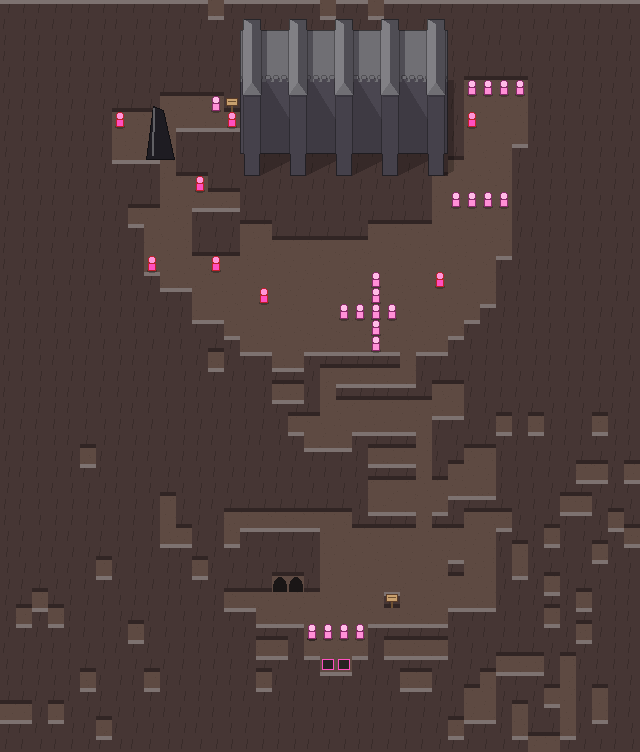
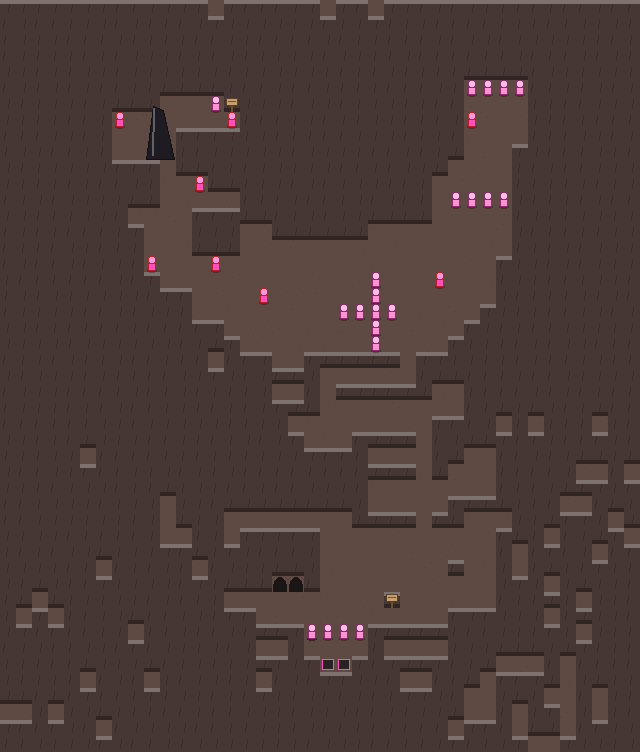
mockup: clean up kit, keep only strong pieces; giants draw behind buildings
Scrapped debris, cliff-town, hangar-wall, fortress-wall, palace-wall,
temple-stairs, cliff-door, comm-tower, obelisk, spire and saucer.
Giants now render first so Cloud City's rim no longer cuts buildings.
New pieces go one category at a time from here.

Changed region(s): [[0.375, 0.0, 0.7188, 0.2447]]

diff --git a/tools/mockup/mockup/build.py b/tools/mockup/mockup/build.py
@@ -480,42 +480,6 @@ def m_dome_porch(m):
               S.vault(px - 4, -1, px + 4, 3, 8, 4, m.door_col_rgb, subtract=True))
 
 
-def m_spire(m):
-    """A Mos Espa-style tower: stacked drums getting narrower, a mast on top."""
-    W = m.W
-    a0 = min(W / 2 - 2, 18)
-    b0 = a0 * 0.6
-    cx, cy = W / 2, b0 + 1
-    z = 0
-    tiers = [(1.0, 16), (0.75, 14), (0.55, 12), (0.35, 10)]
-    top = m.H - 2 * b0 - 12
-    for k, (f, hh) in enumerate(tiers):
-        hh = min(hh, top - z)
-        if hh < 4:
-            break
-        col = m.wall if k % 2 == 0 else shade(m.wall, -0.06)
-        m.add(S.cylinder(cx, cy, a0 * f, b0 * f, z, z + hh, col, m.roof))
-        m.add(S.cylinder(cx, cy, a0 * f + 1, b0 * f + 1, z + hh - 2, z + hh, m.trim))
-        z += hh
-    m.add(S.box(cx - 1, cy - 1, z, cx + 1, cy + 1, min(z + 12, m.H - 2 * b0), m.trim))
-    _round_door(m, cx, cy, a0, b0, h=10)
-
-
-def m_saucer(m):
-    """Cloud City: a wide disc on a slim stalk, a small dome on top."""
-    W = m.W
-    a = max(8, min(W / 2 - 1, (m.H - 36) / (2 * OVAL)))     # leave room for a visible stalk
-    b = a * OVAL
-    cx, cy = W / 2, b + 1
-    stalk = max(14, int(m.H - 2 * b - 16))
-    sa, sb = max(5, a * 0.22), max(3, b * 0.22)
-    m.add(S.cylinder(cx, cy, sa, sb, 0, stalk, m.wall, m.roof))
-    m.add(S.cylinder(cx, cy, a * 0.6, b * 0.6, stalk - 4, stalk, shade(m.wall, -0.1)))
-    m.add(S.cylinder(cx, cy, a, b, stalk, stalk + 5, m.trim, m.roof))
-    m.add(S.dome(cx, cy, a * 0.45, b * 0.45, stalk + 5, 7, shade(m.roof, 0.1)))
-    _round_door(m, cx, cy, sa, sb, w=6, h=10)
-
-
 def m_glass_dome(m):
     """A faceted glass greenhouse dome on a low ring wall (Sullust ash farms)."""
     h = 5
@@ -527,61 +491,6 @@ def m_glass_dome(m):
     m.add(S.cylinder(cx, cy, a, b, 0, h, m.wall, m.roof))
     m.add(S.dome(cx, cy, a, b, h, rise, glass, rings=4, n=12))
     _round_door(m, cx, cy, a, b, h=8)
-
-
-def m_comm_tower(m):
-    """A comms mast: a lattice tower tapering up, crossbars, a dish near the top, a small hut at its foot."""
-    W = m.W
-    s = min(W * 0.32, 16)
-    cx, cy = W / 2, s + 6
-    top = m.H - 2 * s - 14
-    leg = m.trim
-    for dx in (-1, 1):
-        for dy in (-1, 1):
-            m.add(S.prism([(cx + dx * s - 1.2, cy + dy * s * 0.6 - 1.2), (cx + dx * s + 1.2, cy + dy * s * 0.6 - 1.2),
-                           (cx + dx * s + 1.2, cy + dy * s * 0.6 + 1.2), (cx + dx * s - 1.2, cy + dy * s * 0.6 + 1.2)],
-                          0, top, leg))
-    for k, z in enumerate(range(10, int(top), 12)):
-        f = 1 - z / max(top, 1) * 0.0
-        m.add(S.box(cx - s, cy - s * 0.6 - 1, z, cx + s, cy - s * 0.6 + 1, z + 1.5, shade(leg, 0.15)))
-    m.add(S.box(cx - s - 1, cy - s * 0.6 - 1, top, cx + s + 1, cy + s * 0.6 + 1, top + 3, m.wall, m.roof))
-    m.add(S.box(cx - 1, cy - 1, top + 3, cx + 1, cy + 1, top + 14, leg))
-    m.add(S.cylinder(cx + s * 0.6, cy - s * 0.6, 6, 3, top + 6, top + 8, shade(m.wall, 0.2)))
-    m.add(S.box(cx - 9, 0, 0, cx + 9, 8, 10, m.wall, m.roof))
-    m.door(0, h=8, w=6)
-
-
-def m_cliff_door(m):
-    """A hangar dug into a rock or ice face: the face fills the box, a framed blast door in it."""
-    W = m.W
-    rock = (150, 150, 150) if m.grey else m.st.get("rock", shade(m.ground, -0.25))
-    h = m.H - 12
-    m.add(S.prism([(0, 4), (W, 4), (W, 12), (0, 12)], 0, h, rock, shade(rock, 0.15), taper=4))
-    m.add(S.box(0, 4, 0, W, 12, h * 0.3, rock))
-    if m.door_x is None:
-        m.door_x = W / 2
-    if True:
-        dw = min(W * 0.35, 26)
-        m.add(S.box(m.door_x - dw / 2 - 3, 2, 0, m.door_x + dw / 2 + 3, 6, min(h * 0.7, 26), m.wall, m.roof))
-        m.add(S.box(m.door_x - dw / 2, 1, 0, m.door_x + dw / 2, 8, min(h * 0.62, 22), m.door_col_rgb, subtract=True))
-        for z in range(4, int(min(h * 0.62, 22)), 5):
-            m.add(S.box(m.door_x - dw / 2, 6.5, z, m.door_x + dw / 2, 7.5, z + 1, shade(m.door_col_rgb, 0.25)))
-
-
-def m_obelisk(m):
-    """A tall tapering tower on a stepped base (Vader's fortress, the Kyber temple)."""
-    W = m.W
-    D = max(16, int(m.H * 0.3))
-    m.add(S.box(1, 0, 0, W - 1, D, 8, m.wall, m.roof))
-    w0 = W * 0.28
-    cx, cy = W / 2, D * 0.55
-    top = m.H - D - 2
-    m.add(S.prism([(cx - w0, cy - w0 * 0.55), (cx + w0, cy - w0 * 0.55), (cx + w0, cy + w0 * 0.55),
-                   (cx - w0, cy + w0 * 0.55)], 8, top, m.wall, m.roof, taper=w0 * 0.42))
-    if m.st.get("fork"):
-        for dx in (-3, 3):
-            m.add(S.box(cx + dx - 1.5, cy - 1, top - 2, cx + dx + 1.5, cy + 1, top + 8, m.trim))
-    m.door(0, w=10)
 
 
 def m_plant(m):
@@ -634,34 +543,6 @@ def m_hipped(m):
     m.add(S.hip(-1, -2, m.W + 1, D + 1, h, rise, m.roof))
     m.door(0)
     m.windows(0, m.W, 0, h * 0.45)
-
-
-def m_cliff_town(m):
-    """Homes carved into a rock face: two stepped rock tiers, doorways, windows, balconies and ladders."""
-    W, H = m.W, m.H
-    rock = m.st.get("cliff") or shade(m.ground, -0.3)
-    D = max(16, H * 0.3)
-    h1 = (H - D) * 0.5
-    h2 = (H - D) - h1 - 2
-    m.add(S.prism([(0, 0), (W, 0), (W, D), (0, D)], 0, h1, rock, shade(rock, 0.12), taper=3))
-    m.add(S.prism([(0, D * 0.45), (W, D * 0.45), (W, D), (0, D)], h1 - 1, h1 + h2, shade(rock, -0.05),
-                  shade(rock, 0.1), taper=3))
-    dark = (30, 26, 24)
-    x = 10 + m.r(1, 8)
-    k = 0
-    while x < W - 14:
-        k += 1
-        if (k + m.r(2, 3)) % 3:
-            m.add(S.box(x, -1, 0, x + 7, 4, 11, dark, subtract=True),
-                  S.vault(x, -1, x + 7, 4, 11, 3, dark, subtract=True))
-        else:
-            m.add(S.box(x - 1, -2, h1 * 0.55, x + 9, 2, h1 * 0.55 + 1.5, shade(m.trim, 0.1)))     # a balcony
-        if k % 2:
-            m.add(S.box(x + 2, D * 0.45 + 2, h1 + h2 * 0.35, x + 6, D * 0.45 + 6, h1 + h2 * 0.35 + 5, dark,
-                        subtract=True))
-        x += 18 + m.r(k % 5 + 3, 10)
-    for lx in (W * 0.3, W * 0.72):
-        m.add(S.box(lx - 2, 1.5 - 0.5, 0, lx + 2, 2.3, h1 + 1, shade(m.trim, -0.1)))
 
 
 def m_city_edge(m):
@@ -723,53 +604,6 @@ def m_ship_hull(m):
     for k in range(1, 14):
         x = tipx + (backx - tipx) * k / 14
         m.add(S.box(x - 0.8, -400, -30, x + 0.8, 800, 600, shade(hull, -0.35), subtract=True))
-
-
-def m_debris(m):
-    """A field of capital-ship wreckage: hull slabs stuck in the sand, a buried engine bell, a fin."""
-    W, H = m.W, m.H
-    hull = _hull(m)
-    sand = shade(m.ground, -0.08)
-    x = 4
-    k = 0
-    while x < W - 20:
-        k += 1
-        kind = m.r(k, 3)
-        w = 28 + 10 * m.r(k + 3, 4)
-        y = 6 + 6 * m.r(k + 9, 4)
-        if kind == 0:      # a slab of hull plating stuck in at an angle
-            hgt = 30 + 12 * m.r(k + 5, 4)
-            m.add(S.prism([(x, y), (x + w, y + 6), (x + w - 4, y + 14), (x + 2, y + 10)], -6, hgt, hull,
-                          shade(hull, 0.1), taper=5))
-        elif kind == 1:    # an engine bell lying on its side, half buried
-            r = w / 2
-            m.add(S.vault(x, y, x + w, y + 40, -r * 0.3, r, shade(hull, -0.05)))
-            m.add(S.vault(x + 5, y - 1, x + w - 5, y + 6, -r * 0.3, r - 5, (30, 30, 34), subtract=True))
-        else:              # a tall broken fin
-            hgt = 50 + 15 * m.r(k + 6, 4)
-            m.add(S.prism([(x, y + 4), (x + w * 0.6, y), (x + w * 0.7, y + 6), (x + 4, y + 10)], 0, hgt, hull,
-                          shade(hull, 0.1), taper=4))
-        m.add(S.cylinder(x + w / 2, y + 6, w * 0.65, 8, -2, 4, sand, shade(m.ground, -0.02), outline=False))
-        x += w + 10 + 6 * m.r(k + 2, 3)
-
-
-def m_palace_wall(m):
-    """Jabba's palace outer wall: an adobe wall too tall to fit, a round tower, a sealed blast gate."""
-    W, H = m.W, m.H
-    hgt = H * 3
-    m.add(S.prism([(-W, 6), (2 * W, 6), (2 * W, 400), (-W, 400)], 0, hgt, m.wall, m.roof, taper=6))
-    m.add(S.box(-W, 2, 0, 2 * W, 8, 6, shade(m.wall, -0.05), m.roof))       # footing
-    tx = W * (0.2 if m.r(2, 2) else 0.75)
-    m.add(S.cylinder(tx, 30, 26, 18, 0, hgt * 1.2, shade(m.wall, 0.04), m.roof))
-    m.add(S.cylinder(tx, 30, 27, 19, 22, 25, m.trim))
-    gx = W * 0.5
-    m.add(S.box(gx - 20, 0, 0, gx + 20, 9, 34, shade(m.wall, -0.08)))
-    m.add(S.box(gx - 16, -1, 0, gx + 16, 6, 28, shade(m.trim, -0.35), subtract=True))
-    for z in range(4, 28, 6):
-        m.add(S.box(gx - 16, 4, z, gx + 16, 5, z + 1, shade(m.trim, -0.15)))
-    for x in range(int(-W), int(2 * W), 22):
-        if abs(x - gx) > 30 and abs(x - tx) > 34:
-            m.add(S.box(x, -1, 30, x + 2, 9, 38, (30, 26, 22), subtract=True))
 
 
 def m_trench_wall(m):
@@ -835,64 +669,7 @@ def m_undercity_rim(m):
         m.add(S.box(x - 1.5, y - 2, -rim - 60, x + 1.5, y + 2, -rim, shade(wall, -0.3), below=True))
 
 
-def m_temple_stairs(m):
-    """The base of a Massassi temple too big to fit: stone tiers stepping up off the top of the map, a
-    central stair climbing them."""
-    W, H = m.W, m.H
-    stone, top = shade(m.wall, -0.12), shade(m.roof, 0.18)
-    step, back = 9, 7
-    sx = W * (0.35 + 0.3 * m.r(1, 2))
-    for t in range(40):
-        y0 = 2 + t * back
-        m.add(S.box(-W, y0, t * step, 2 * W, y0 + 600, (t + 1) * step, shade(stone, -0.03 * (t % 2)), top))
-    k = step / back
-    n = np.array([0, -k, 1.0]) / math.hypot(k, 1)
-    m.add(S.Solid([[1, 0, 0, sx + 14], [-1, 0, 0, -(sx - 14)], [0, -1, 0, 0], [0, 0, -1, 0], [*n, n @ np.array([0, 0, 2])]],
-                  shade(stone, 0.12), shade(top, 0.12)))
-    for t in range(80):          # step lines on the stair
-        y = t * 3
-        m.add(S.box(sx - 14, y, y * k + 1.2, sx + 14, y + 0.9, y * k + 2.2, shade(stone, -0.18)))
-    for dx in (-16, 14):         # side ramps (balustrades)
-        m.add(S.Solid([[1, 0, 0, sx + dx + 2], [-1, 0, 0, -(sx + dx)], [0, -1, 0, 0], [0, 0, -1, 0],
-                       [*n, n @ np.array([0, 0, 6])]], shade(stone, -0.05), shade(top, 0.0)))
-
-
-def m_hangar_wall(m):
-    """A giant hangar front: a huge block with an open bay door, landing lights, a vaulted roof."""
-    W, H = m.W, m.H
-    h = H * 0.42
-    rise = min(16, H * 0.2)
-    D = H - h - rise
-    m.add(S.box(0, 0, 0, W, D, h, m.wall, m.roof), S.vault(0, 0, W, D, h, rise, m.roof))
-    dw = W * 0.5
-    x0 = (W - dw) / 2
-    m.add(S.box(x0, -1, 0, x0 + dw, D * 0.6, h * 0.8, (28, 30, 34), shade(m.ground, -0.3), subtract=True))
-    for x in range(int(x0) + 3, int(x0 + dw) - 2, 6):
-        m.add(S.box(x, -1.5, h * 0.8 + 1, x + 2, -0.5, h * 0.8 + 3, (250, 220, 120) if not m.grey else (220, 220, 220)))
-    m.add(S.box(x0 - 2, -1, 0, x0, 1, h * 0.85, m.trim), S.box(x0 + dw, -1, 0, x0 + dw + 2, 1, h * 0.85, m.trim))
-    m.windows(0, x0 - 4, 0, h * 0.5)
-    m.windows(x0 + dw + 4, W, 0, h * 0.5)
-
-
-def m_fortress_wall(m):
-    """A long fortress wall with buttress towers, crenellations and a central gate."""
-    W, H = m.W, m.H
-    h = H * 0.45
-    D = H - h - 14
-    m.add(S.box(0, D * 0.3, 0, W, D, h, m.wall, m.roof))
-    for x in range(2, int(W) - 4, 8):
-        m.add(S.box(x, D * 0.3, h, x + 4, D * 0.3 + 3, h + 3, m.wall, m.roof))
-    n = max(2, int(W // 64) + 1)
-    for i in range(n + 1):
-        x = 4 + (W - 24) * i / n
-        m.add(S.box(x, 0, 0, x + 16, D, h + 10, shade(m.wall, -0.06), m.roof))
-        m.add(S.hip(x - 1, -1, x + 17, D + 1, h + 10, 4, m.roof))
-    if m.door_x is not None:
-        m.door(D * 0.3, w=14, h=min(18, h * 0.6))
-
-
-GIANTS = ["ship-hull", "debris", "palace-wall", "trench-wall", "stilt-city", "undercity-rim", "temple-stairs",
-          "cliff-town", "city-edge", "hangar-wall", "fortress-wall", "cliff-door"]
+GIANTS = ["ship-hull", "trench-wall", "stilt-city", "undercity-rim", "city-edge"]
 
 BUILDS = {
     "block": m_block, "box": m_block,
@@ -903,12 +680,11 @@ BUILDS = {
     "hall": lambda m: m_wings(m, dome_mid=True),
     "dome": m_dome, "domes2": m_domes2, "dome-block": m_dome_block, "store": m_store,
     "bunker": m_bunker, "buried": m_buried, "bay": m_bay, "pad": m_pad, "dome-porch": m_dome_porch,
-    "spire": m_spire, "saucer": m_saucer, "glass-dome": m_glass_dome, "comm-tower": m_comm_tower,
-    "hipped": m_hipped, "cliff-town": m_cliff_town, "city-edge": m_city_edge, "ship-hull": m_ship_hull,
-    "hangar-wall": m_hangar_wall, "fortress-wall": m_fortress_wall, "debris": m_debris,
-    "palace-wall": m_palace_wall, "trench-wall": m_trench_wall, "stilt-city": m_stilt_city,
-    "undercity-rim": m_undercity_rim, "temple-stairs": m_temple_stairs,
-    "cliff-door": m_cliff_door, "obelisk": m_obelisk,
+    "glass-dome": m_glass_dome, 
+    "hipped": m_hipped,  "city-edge": m_city_edge, "ship-hull": m_ship_hull,
+      
+    "trench-wall": m_trench_wall, "stilt-city": m_stilt_city,
+    "undercity-rim": m_undercity_rim,
     "quonset": m_quonset, "hangar": lambda m: m_quonset(m, wide=True),
     "stilts": m_stilts, "stilts-dome": lambda m: m_stilts(m, "dome", round_=True),
     "stilts-flat": lambda m: m_stilts(m, "flat"),

diff --git a/tools/mockup/mockup/draw.py b/tools/mockup/mockup/draw.py
@@ -362,7 +362,9 @@ def area(doc, styles, labels=True, grey=False):
     exits(d, doc, W, H)
     # draw back to front so lower pieces overlap higher ones, like the game
     pieces = [("building", b) for b in doc.get("buildings") or []] + [("prop", p) for p in doc.get("props") or []]
-    pieces.sort(key=lambda kp: kp[1]["at"][1] + kp[1].get("size", [1, 1])[1])
+    # giants are backdrop: always drawn first, so nothing on the playable map is ever covered by them
+    pieces.sort(key=lambda kp: (not kp[1].get("art", "").startswith("art:giant:"),
+                                kp[1]["at"][1] + kp[1].get("size", [1, 1])[1]))
     for kind, o in pieces:
         seed = _h(zlib.crc32(o.get("art", "").encode()), o["at"][0], o["at"][1])
         st = styles.shape(o.get("art", ""), planet, kind, seed)

diff --git a/tools/mockup/README.md b/tools/mockup/README.md
@@ -36,14 +36,14 @@ python3 -m mockup missing                 # art ids that have no shape in styles
   - `mockup/solid.py`: solids, ray casting, shading. `mockup/build.py`: the models in `BUILDS`: block, L,
     oct, T, notch, court, wings, hall, palace, pitched, barrel, quonset, hangar, tower, round-tower, stepped,
     dome, domes2, dome-block, dome-porch, store, cone, glass-dome, bunker, buried, stilts, stilts-dome,
-    stilts-flat, deck, pad, bay, plant, lab, arena, and the sci-fi set: spire, saucer, comm-tower,
-    cliff-door, obelisk, hipped. A prop whose style has a `build` (the landing pad) is a 3D
+    stilts-flat, deck, pad, bay, plant, lab, arena, and hipped. A prop whose style has a `build` (the landing pad) is a 3D
     model too. Sunken courtyards were dropped (owner: doors can't sit at the bottom of a pit like that). `python3 -m mockup builds [--grey]` draws them all.
   - **Giants** (`GIANTS` in build.py) are huge pieces for the edges of a map, modelled at true scale and
     only partly drawn: the sprite is clipped to its box, so a Star Destroyer runs off the map and the player
-    sees just its bow. ship-hull (`facing: east|west`), debris, palace-wall, trench-wall, stilt-city,
+    sees just its bow. ship-hull (`facing: east|west`), trench-wall, stilt-city,
     undercity-rim (`rim: [cx, cy, a, b]` in cells; its deck top is see-through and the city side drops
-    below ground level), temple-stairs, cliff-town, city-edge, hangar-wall, fortress-wall, cliff-door.
+    below ground level), city-edge. Giants draw first, behind every
+    building, so they never cover playable content.
     Solids are hidden below ground unless made with `below=True`. They sit on blocked border cells and are placed only by mockup
     overrides (`wiki/mockup/overrides/<area>.yaml`, `add: buildings`), never in phase 1.
     `python3 -m mockup builds --giants [--grey]` draws them.
@@ -53,5 +53,8 @@ python3 -m mockup missing                 # art ids that have no shape in styles
     a dome is never taller than a hemisphere. A round building that doesn't fit its box gets narrower,
     never squashed (`fit_round` in build.py).
     The owner prefers roofed buildings; keep round ones for iconic places only.
+  - **Cleaned up (owner, 2026-11-02):** scrapped as weak art: debris, cliff-town, hangar-wall, fortress-wall,
+    palace-wall, temple-stairs, cliff-door, comm-tower, obelisk, spire, saucer (and earlier shield-gen, turret, sunken). New buildings come **one category at a
+    time**, small and high quality, each reviewed before the next. No batches.
   - `render --grey` draws buildings in neutral grey (the pure greybox look); `--out DIR` writes elsewhere.
 - `mockup/draw.py`: terrain, props and people. `mockup/cli.py`: the commands.

diff --git a/HANDOFF.md b/HANDOFF.md
@@ -54,7 +54,11 @@ The owner split the remaining work into phases on 2026-11-02.
    shows them all. The owner wants images shown in the chat, not left in folders for them to find (a gallery Artifact page works well).
    Owner feedback so far: prefer roofed buildings over round ones; no sunken courtyards; shield generator and
    turret were scrapped as bad art; round shapes must follow one projection rule
-   (enforced in `solid.py`: oval depth = radius·cos45°, domes at most hemispheres, shrink rather than squash); think big with giant border pieces (`build.py` GIANTS, placed by overrides).
+   (enforced in `solid.py`: oval depth = radius·cos45°, domes at most hemispheres, shrink rather than squash); think big with giant border pieces (`build.py` GIANTS, placed by overrides, drawn behind everything).
+   Cleanup (owner, 2026-11-02): debris, cliff-town, hangar-wall, fortress-wall, palace-wall, temple-stairs, cliff-door, comm-tower, obelisk, spire
+   and saucer were scrapped;
+   keep only what looks good. **From here on: one building category at a time, small and high quality, reviewed
+   before the next. No batches.** Still open: the owner's pick of colour direction A, B or C (gallery Artifact).
 3. **Real art.** This resumes the paused art tools. The first art step is calibrating the Fortree tree house in
    [`tools/world-art`](tools/world-art/README.md) (STYLE.md section 9). The tile pipeline is in
    [`tools/tile-generator/PLAN.md`](tools/tile-generator/PLAN.md).

diff --git a/wiki/mockup/README.md b/wiki/mockup/README.md
@@ -13,7 +13,7 @@ phase 1, so the whole folder can be thrown away and redrawn.
 | `<planet>/_planet.png` | One planet's towns, routes and landmarks stitched together |
 | `<planet>/<area>.png`, `<planet>/caves/`, `<planet>/interiors/` | One area each, same folders as phase 1 |
 | [`_buildings.png`](_buildings.png), [`_buildings-grey.png`](_buildings-grey.png) | Every building type at three sizes, in colour and in pure grey (`python3 -m mockup builds [--grey]`) |
-| [`_giants.png`](_giants.png) | The giant border pieces (cliff towns, city skylines, a crashed ship, hangar and fortress walls) |
+| [`_giants.png`](_giants.png) | The giant border pieces (a city skyline, a crashed cruiser, the Death Star trench, Kamino stilts, Cloud City's rim) |
 | [`styles.yaml`](styles.yaml) | Colours per planet and one shape per building and prop type |
 | `overrides/<area>.yaml` | Mockup-only tweaks for one area (hide, move, add, restyle a piece). Giant border pieces are added here. |
 
